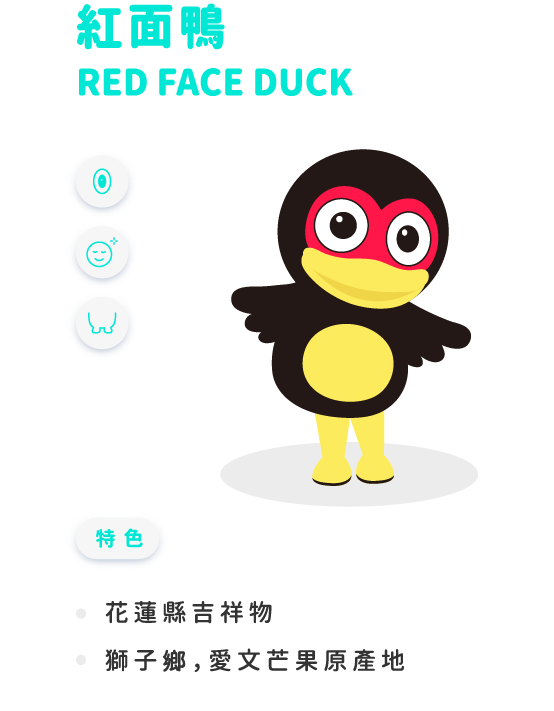
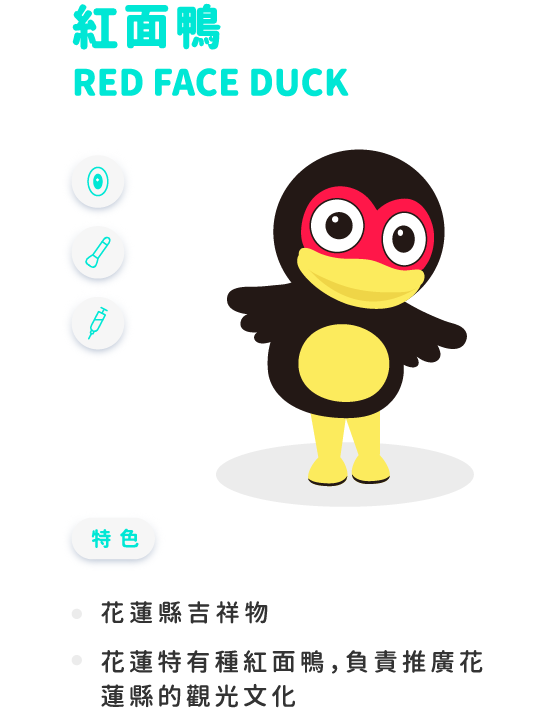
整形選項icon更新、整形結果頁錯誤素材(3,6,15,21吉祥物)更新、READ.md更新

diff --git a/src/components/Sixth.vue b/src/components/Sixth.vue
@@ -28,18 +28,20 @@
 <!--           <a href=""class="block"></a> -->
 
           <div class="bottom-container">
-            <button id="like" @click="ribbonShow = !ribbonShow">
+            <button id="like" @click="ribbonShow = !ribbonShow;like2 = !like2">
               <img src="../assets/sixth/like.png" alt="">
             </button>
+            <a class="like2" v-if="like2">
+              <img src="../assets/sixth/like2.png" alt="">
+            </a> 
+ 
             <a id="download" :href="src" download >
               <img src="../assets/sixth/download.png" alt="">
             </a>
             <button id="shareBtn" @click="handleShare">
               <img src="../assets/sixth/share.png" alt="">
-            </button>  
-            <div class="fb-share-button" data-href="http://mascot-test-wang.s3-website-ap-northeast-1.amazonaws.com/" data-layout="button_count" data-size="small">
-              <a target="_blank" href="https://www.facebook.com/sharer/sharer.php?u=http%3A%2F%2Fmascot-test-wang.s3-website-ap-northeast-1.amazonaws.com%2F&amp;src=sdkpreparse" class="fb-xfbml-parse-ignore">分享</a>
-            </div>
+            </button>
+            <div class="fb-share-button" data-href="http://mascot-surgery-room.s3-website-ap-northeast-1.amazonaws.com" data-layout="button" data-size="large"><a target="_blank" href="https://www.facebook.com/sharer/sharer.php?u=http%3A%2F%2Fmascot-surgery-room.s3-website-ap-northeast-1.amazonaws.com%2F&amp;src=sdkpreparse" class="fb-xfbml-parse-ignore">分享</a></div>
             <button id="home">
               <router-link to="/second"><img src="../assets/sixth/home.png" alt=""></router-link>
             </button>
@@ -69,7 +71,8 @@ export default {
     return{
       rotate:false,
       show: false,
-      ribbonShow: false
+      ribbonShow: false,
+      like2: false
     };
   },
   methods: {
@@ -89,7 +92,7 @@ export default {
       // FB.ui({
       //   display: 'popup',
       //   method: 'share',
-      //   href: 'http://mascot-test-wang.s3-website-ap-northeast-1.amazonaws.com',
+      //   href: 'http://mascot.surgery.room.s3-website-ap-northeast-1.amazonaws.com',
       // }, function(response){});
     },
     handleBackward(){
@@ -141,10 +144,7 @@ export default {
       return `/static/sixth/name/${id}.png`
     }
  },
-  //   src1(){
-  //     const {id} = this.$route.params
-  //     return `/static/fourth/${id}.png`
-  //   }
+
 
 
 
@@ -220,6 +220,8 @@ export default {
          }
    }*/
   .bottom-container{
+    display: flex;
+    justify-content: space-around;
     position: fixed;
     bottom: 0;
     #like{
@@ -227,7 +229,31 @@ export default {
         left: 5%;
          bottom: 12%;*/
       img{
-        height: 55px;
+        height: 56px;
+      }
+    }
+    @media screen and (min-width: 401px) {
+      .like2{
+        pointer-events: none;
+        position: fixed;
+        bottom: 0.8%;
+        left: 12.5%;
+        img{
+          display: block;
+          height: 56px;
+        }
+      }
+    }
+    @media screen and (max-width: 400px) {
+      .like2{
+        pointer-events: none;
+        position: fixed;
+        bottom: 0.8%;
+        left: 9%;
+        img{
+          display: block;
+          height: 56px;
+        }
       }
     }
     #download{
@@ -235,7 +261,7 @@ export default {
        left: 20%;
        bottom: 12%;*/
       img{
-        height: 55px;
+        height: 56px;
       }
     }
     #shareBtn{
@@ -244,16 +270,32 @@ export default {
        bottom: 12%;*/
        margin-right: 15px;
       img{
-        height: 55px;
+        height: 56px;
       }
     }
+    // .fb-share-button{
+    //   position: fixed;
+    //   bottom: 0;
+    //   left: 40%;
+    //   height: 56px;
+    //   width: 56px; 
+    //   .fb-xfbml-parse-ignore{ 
+    //     height: 100%;
+    //     width: 100%;
+    //     color: transparent;
+    //   }
+    //   span{
+    //     height: 56px;
+    //     width: 56px;        
+    //   }
+    // }
     #home{
       /* position: absolute;
        left: 60%;
        bottom: 12%;*/
       margin-left: 30px;
       img{
-        height: 55px;
+        height: 56px;
       }
     }
   }
@@ -331,17 +373,18 @@ export default {
     }
   }
 }
-.fb-share-button{
-  position: fixed;
-  bottom: 0;
-  left: 40%;
-  height: 55px;
-  width: 55px; 
-  .fb-xfbml-parse-ignore{ 
-    height: 100%;
-    width: 100%;  
-    color: transparent;
-  }
-}
+    .fb-share-button{
+      opacity: 0;
+      position: fixed;
+      bottom: 0;
+      left: 40%;
+      height: 55px;
+      width: 55px; 
+      span{
+        width: 100%;
+        height: 100%;
+      }
+    }
+
 
 </style>

diff --git a/src/components/Fourth.vue b/src/components/Fourth.vue
@@ -47,7 +47,7 @@
           <div class="level">
             <img src="../assets/fourth/eyes_distance.png" alt="">
             <span>{{eyes}}%</span>          
-            <vue-slider :width="200" :tooltip="'none'" v-model="eyes" :process-style="processStyle" :rail-style="railStyle" :dotStyle="dotStyle">
+            <vue-slider :width="220" :tooltip="'none'" v-model="eyes" :process-style="processStyle" :rail-style="railStyle" :dotStyle="dotStyle">
             </vue-slider>
           </div>
         </div>
@@ -59,7 +59,7 @@
           <div class="level">
             <img src="../assets/fourth/rhinoplasty.png" alt="">
             <span>{{rhinoplasty}}%</span>
-            <vue-slider :width="200" :tooltip="'none'" v-model="rhinoplasty" :process-style="processStyle" :rail-style="railStyle" :dotStyle="dotStyle" ></vue-slider>
+            <vue-slider :width="220" :tooltip="'none'" v-model="rhinoplasty" :process-style="processStyle" :rail-style="railStyle" :dotStyle="dotStyle" ></vue-slider>
           </div>
         </div>
 
@@ -70,7 +70,7 @@
           <div class="level">
             <img src="../assets/fourth/shrink_lips.png" alt="">
             <span>{{shrink_lips}}%</span>          
-            <vue-slider :width="200" :tooltip="'none'" v-model="shrink_lips" :process-style="processStyle" :rail-style="railStyle" :dotStyle="dotStyle" ></vue-slider>        
+            <vue-slider :width="220" :tooltip="'none'" v-model="shrink_lips" :process-style="processStyle" :rail-style="railStyle" :dotStyle="dotStyle" ></vue-slider>        
           </div>
         </div>
 
@@ -81,7 +81,7 @@
           <div class="level">
             <img src="../assets/fourth/line_carving.png" alt="">
             <span>{{line_carving}}%</span>          
-            <vue-slider :width="200" :tooltip="'none'" v-model="line_carving" :process-style="processStyle" :rail-style="railStyle" :dotStyle="dotStyle" ></vue-slider>        
+            <vue-slider :width="220" :tooltip="'none'" v-model="line_carving" :process-style="processStyle" :rail-style="railStyle" :dotStyle="dotStyle" ></vue-slider>        
           </div>
         </div>
 
@@ -92,7 +92,7 @@
           <div class="level">
             <img src="../assets/fourth/autologous_fat_transplantation.png" alt="">
             <span>{{autologous_fat_transplantation}}%</span>          
-            <vue-slider :width="200" :tooltip="'none'" v-model="autologous_fat_transplantation" :process-style="processStyle" :rail-style="railStyle" :dotStyle="dotStyle" ></vue-slider>      
+            <vue-slider :width="220" :tooltip="'none'" v-model="autologous_fat_transplantation" :process-style="processStyle" :rail-style="railStyle" :dotStyle="dotStyle" ></vue-slider>      
           </div>
         </div>
 
@@ -256,10 +256,11 @@ export default {
 .slide{
   display: flex;
   flex-direction: column;
-  align-items: center;
+  align-content: space-around;
+  margin-left: 11%;
   .slide-container{
     display: flex;
-    align-content: space-between;
+    align-content: space-around;
     margin-top: 5%;
     .animation{
       display: flex;
@@ -279,8 +280,9 @@ export default {
     }
     .level{
       margin-left: 20px;
+      margin-top: 10px; 
       img{
-        height: 13px;
+        height: 15px;
       }
       span{
         float: right;

diff --git a/index.html b/index.html
@@ -3,21 +3,21 @@
   <head>
     <meta charset="utf-8">
     <meta name="viewport" content="width=device-width,initial-scale=1.0">
-    <meta property="og:url"                content="http://mascot-test-wang.s3-website-ap-northeast-1.amazonaws.com/"/>
+    <meta property="og:url"                content="http://mascot-surgery-room.s3-website-ap-northeast-1.amazonaws.com"/>
     <meta property="og:title"              content="吉診室" />
-    <meta property="og:description"        content="快來體驗診服務！" />
-    <meta property="og:image:height"       content="600" />
+    <meta property="og:description"        content="快來體驗吉診服務！" />
+<!--     <meta property="og:image:height"       content="600" />
     <meta property="og:image:width"        content="600" />
-    <meta property="og:image"              content="http://mascot-test-wang.s3-website-ap-northeast-1.amazonaws.com/metalogo.png" />
+    <meta property="og:image"              content="http://mascot.surgery.room.s3-website-ap-northeast-1.amazonaws.com/images/metalogo.png" /> -->
   </head>
   <body>
 <div id="fb-root"></div>
 <script async defer crossorigin="anonymous" src="https://connect.facebook.net/zh_TW/sdk.js#xfbml=1&version=v6.0&appId=218895426053602">
-      
+
       export default {
 
-      }
-</script>
+      } 
+</script> 
     <div id="app"></div>
 <!--   <script>
 
@@ -29,7 +29,8 @@
         version          : 'v6.0'
       });
     };
-  </script> -->
-    <!-- built files will be auto injected -->
+  </script>
+  <script async defer src="https://connect.facebook.net/en_US/sdk.js"></script> -->
+
   </body>
 </html>

diff --git a/config/index.js b/config/index.js
@@ -9,7 +9,7 @@ module.exports = {
 
     // Paths
     assetsSubDirectory: 'static',
-    assetsPublicPath: './',
+    assetsPublicPath: '/',
     proxyTable: {},
 
     // Various Dev Server settings

diff --git a/README.md b/README.md
@@ -1,6 +1,20 @@
 # mascot_spa
+ [深夜博物館 Midnight Museum]
+ 國立臺北藝術大學視覺傳達系109級畢業展 放視大賞入圍作品 -- **吉診室 - 吉祥物生成器**
+## Demo
+[Introduction](https://www.yodex.com.tw/exhibit/1703)
+[Live Demo](http://ntua-mascot.s3-website-ap-northeast-1.amazonaws.com)
 
-> A Vue.js project
+## Skills
+互動功能實踐(Javascript,Vue)
+- API 串接：FB SDK API 分享功能
+- 動態路由：根據選擇之吉祥物，在後續吉祥物整形流程導出該吉祥物之畫面
+- 套件應用：使用套件加速開發流程，並搭配客製化程式碼，使其完整呈現設計師設計之功能、畫面
+- 事件驅動：點擊按鈕、定時後呈現、轉換畫面等互動
+
+切版(Html,SCSS)
+- 因開發時程緊湊，在評估專案需求後，僅針對iphone 6/7/8(&plus),iphone X裝置切版，並在iphone X有最好的使用者體驗。
+- 
 
 ## Build Setup
 
